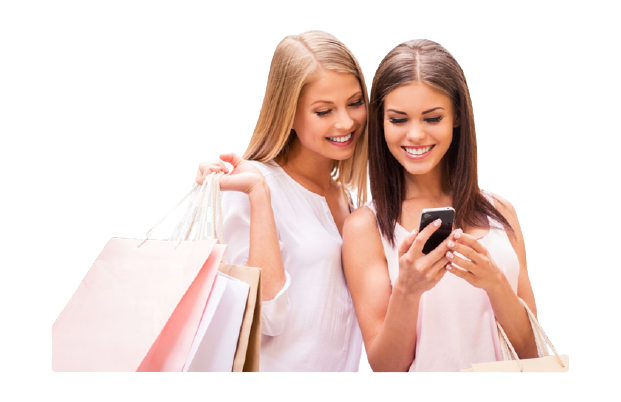
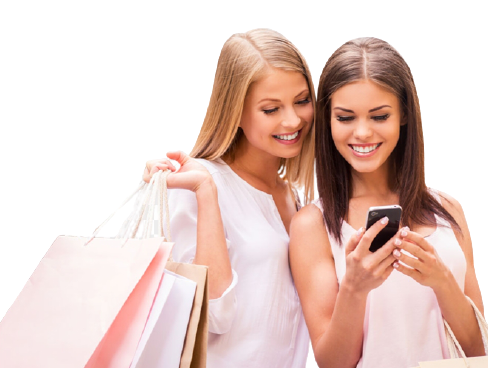
next section & responsive added

diff --git a/index.html b/index.html
@@ -67,6 +67,12 @@
           <li class="nav-item">
             <a class="nav-link">Contact Us</a>
           </li>
+          <li class="nav-item">
+            <a class="nav-link">Sign Up</a>
+          </li>
+          <li class="nav-item">
+            <a class="nav-link">Login</a>
+          </li>
           <!-- <form class="d-flex">
             <input class="form-control me-2" type="search" placeholder="Search" aria-label="Search">
             <button class="btn btn-outline-success" type="submit">Search</button>
@@ -106,8 +112,8 @@
                    
                     <button class="button-style">Buy Now</button>
                 </div>
-                <div class="col-md-5">
-                    <img src="img/first-slider1.png" class="d-block w-100" alt="/headphone">
+                <div class="col-md-5 carousel-img">
+                    <img src="img/first-slider1.png" class="d-block w-100" alt="/">
                 </div>
             </div>
           </div>
@@ -124,7 +130,7 @@
                    
                     <button class="button-style">Buy Now</button>
                 </div>
-                <div class="col-md-5">
+                <div class="col-md-5 carousel-img">
                     <img src="img/first-slider1.png" class="d-block w-100" alt="/">
                 </div>
             </div>
@@ -142,8 +148,8 @@
                    
                     <button class="button-style">Buy Now</button>
                 </div>
-                <div class="col-md-5">
-                    <img src="img/first-slider1.png" class="d-block w-100" alt="/headphone">
+                <div class="col-md-5 carousel-img">
+                    <img src="img/first-slider1.png" class="d-block w-100" alt="/">
                 </div>
             </div>
           </div>
@@ -166,13 +172,13 @@
     <div class="container">
         <div class="row">
                 <!-- First Column  -->
-            <div class="col-md-4 common-class">
+            <div class="col-12 col-md-6 col-lg-4 common-class">
                 <div class="img-content">
                     <img class="img-fluid" src="img/first-slider2.png" alt="">
                 </div>
             </div>
 
-            <div class="col-md-4 common-class  d-flex justify-content-center align-items-center">
+            <div class="col-12 col-md-6 col-lg-4 common-class  d-flex justify-content-center align-items-center">
                 <div class="content text-center">
                     <h2 class="selling-title">Best Selling <br> Product</h2>
                     <p>Lorem ipsum, dolor sit amet consectetur adipisicing elit. Minima delectus placeat quibusdam laboriosam vitae doloribus.</p>
@@ -180,14 +186,14 @@
                 </div>
             </div>
 
-            <div class="col-md-4 common-class">
+            <div class="col-12 col-md-6 col-lg-4 common-class">
                 <div class="img-content">
                     <img class="img-fluid" src="img/first-slider2.png" alt="">
                 </div>
             </div>
 
                     <!-- 2nd Column  -->
-            <div class="col-md-4 common-class  d-flex justify-content-center align-items-center">
+            <div class="col-12 col-md-6 col-lg-4 common-class  d-flex justify-content-center align-items-center">
                 <div class="content text-center">
                     <h2 class="selling-title">Best Selling <br> Product</h2>
                     <p>Lorem ipsum, dolor sit amet consectetur adipisicing elit. Minima delectus placeat quibusdam laboriosam vitae doloribus.</p>
@@ -195,13 +201,13 @@
                 </div>
             </div>
 
-            <div class="col-md-4 common-class">
+            <div class="col-12 col-md-6 col-lg-4 common-class">
                 <div class="img-content">
                     <img class="img-fluid" src="img/first-slider2.png" alt="">
                 </div>
             </div>
 
-            <div class="col-md-4 common-class  d-flex justify-content-center align-items-center">
+            <div class="col-12 col-md-6 col-lg-4 common-class  d-flex justify-content-center align-items-center">
                 <div class="content text-center">
                     <h2 class="selling-title">Best Selling <br> Product</h2>
                     <p>Lorem ipsum, dolor sit amet consectetur adipisicing elit. Minima delectus placeat quibusdam laboriosam vitae doloribus.</p>
@@ -217,9 +223,9 @@
 <section class="product-collection p-5">
 <div class="container">
     <h2 class="product-title">Product Collection</h2>
-    <div class="row row-cols-1 row-cols-md-3 g-4">
+    <div class="row row-cols-1 row-cols-md-3 g-4 icon-hover">
 
-        <div class="col-md-3">
+        <div class="col col-sm-6 col-md-4 col-lg-3 icon-hover">
           <div class="card h-100">
             <img src="img/image3.jpg" class="card-img-top" alt="/">
             <div class="card-body p-0 pt-3">
@@ -236,7 +242,7 @@
           </div>
         </div>
 
-        <div class="col-md-3">
+        <div class="col col-sm-6 col-md-4 col-lg-3">
             <div class="card h-100">
               <img src="img/image3.jpg" class="card-img-top" alt="/">
               <div class="card-body p-0 pt-3">
@@ -253,7 +259,7 @@
             </div>
           </div>
 
-          <div class="col-md-3">
+          <div class="col col-sm-6 col-md-4 col-lg-3">
             <div class="card h-100">
               <img src="img/image3.jpg" class="card-img-top" alt="/">
               <div class="card-body p-0 pt-3">
@@ -270,7 +276,7 @@
             </div>
           </div>
 
-          <div class="col-md-3">
+          <div class="col col-sm-6 col-md-4 col-lg-3">
             <div class="card h-100">
               <img src="img/image3.jpg" class="card-img-top" alt="/">
               <div class="card-body p-0 pt-3">
@@ -287,7 +293,7 @@
             </div>
           </div>
 
-          <div class="col-md-3">
+          <div class="col col-sm-6 col-md-4 col-lg-3">
             <div class="card h-100">
               <img src="img/image3.jpg" class="card-img-top" alt="/">
               <div class="card-body p-0 pt-3">
@@ -304,7 +310,7 @@
             </div>
           </div>
 
-          <div class="col-md-3">
+          <div class="col col-sm-6 col-md-4 col-lg-3">
             <div class="card h-100">
               <img src="img/image3.jpg" class="card-img-top" alt="/">
               <div class="card-body p-0 pt-3">
@@ -321,7 +327,7 @@
             </div>
           </div>
 
-          <div class="col-md-3">
+          <div class="col col-sm-6 col-md-4 col-lg-3">
             <div class="card h-100">
               <img src="img/image3.jpg" class="card-img-top" alt="/">
               <div class="card-body p-0 pt-3">
@@ -338,7 +344,7 @@
             </div>
           </div>
 
-          <div class="col-md-3">
+          <div class="col col-sm-6 col-md-4 col-lg-3">
             <div class="card h-100">
               <img src="img/image3.jpg" class="card-img-top" alt="/">
               <div class="card-body p-0 pt-3">
@@ -429,22 +435,35 @@
     </div>   
 </section>  <!--END-->
                     <!-- Top Product  -->
-<!-- <section class="top-product">
-    <div class="container d-flex">
-        <div class="row">
-            <div class="col-md-5 d-flex dark-bg">
-                <div class="product-content">
-                    <h1>Pamela Rose</h1>
-                    <h3>Top Piece</h3>
-                    <button class="button-style">Buy Now</button>
+
+<section class="top-product">
+    <div class="container">
+        <div class="row extra-row g-3">
+            <div class="img--content d-flex align-items-center justify-items-between">
+                <div class="col-7">
+                    <div class="content">
+                        <h1>Pamela Rose</h1>
+                        <h3>Top Piece</h3>
+                        <button class="button-style">Buy Now</button>
+                    </div>
                 </div>
-                <div class="img-area">
-                    <img class="img-fluid pamela" src="img/first-slider2.png" alt="">
+                <div class="col-5">
+                    <div class="img">
+                        <img class="img-fluid" src="img/img6.png" alt="">
+                    </div>
+                </div>
+            </div>
+
+            <div class="content-only m-auto">
+                <div class="box-content">
+                    <h1>Let's Be</h1>
+                    <h3>Consolouos</h3>
+                    <button class="button-style">Buy Now</button>
                 </div>
             </div>
         </div>
     </div>
-</section> -->
+</section>
 
 
 

diff --git a/css/style.css b/css/style.css
@@ -4,6 +4,10 @@ body {
   
   a {
     text-decoration: none;
+    transition: all 0.3s ease-in-out;
+  }
+  a:hover{
+      color: #A89898 !important;
   }
 
   /* TopBar  */
@@ -134,14 +138,37 @@ dl, ol, ul {
     margin-top: 150px;
     padding: 50px;
 }
-.dark-bg{
-    background-color: #6A6869;
-    display: flex;
-    justify-content: center;
-    align-items: center;
-    padding: 30px;
+.extra-row{
+    display: grid;
+    grid-template-columns: repeat(2,1fr);
+    justify-content: space-between;
+    grid-column-gap: 15px;
 }
-img.pamela{
-    position: relative;
-    top: 47px;
+
+.img--content{
+    width: 100%;
+    height: 300px;
+    background-color: #6A6869;
+    color: #fff;
+    padding:0 0 0 10px;
+    margin: 0;
+}
+.img--content h1{
+    font-size: 35px;
+    font-weight: 700;
+}
+.img--content h3{
+    font-size: 24px;
+    font-weight: 300;
+}
+.img--content img{
+    transform: scale(1.3);
+}
+.content-only{
+    width: 100%;
+    height: 300px;
+    background-color: #A89898;
+    display: flex;
+    align-items: center;
+    color: #fff;
 }

diff --git a/css/responsive.css b/css/responsive.css
@@ -7,9 +7,27 @@
     }
 }
 
-@media only screen and (max-width: 618px){
-    #ul-center{
-        display: none;
+@media only screen and (max-width: 810px){
+    .extra-row{
+        grid-template-columns: repeat(1,1fr);
+        grid-row-gap: 15px;
     }
-  
+    .top-product{
+        margin-top: 400px;
+    }
+}
+@media only screen and (max-width: 767px){
+    #ul-center{
+        display: none!important;
+    }
+    .carousel-img img{
+        width: 100%;
+        height: 300px;
+    }
+    .common-class {
+        padding: 0;
+    }
+    .img--content img {
+        transform: scale(1);
+    }
 }
